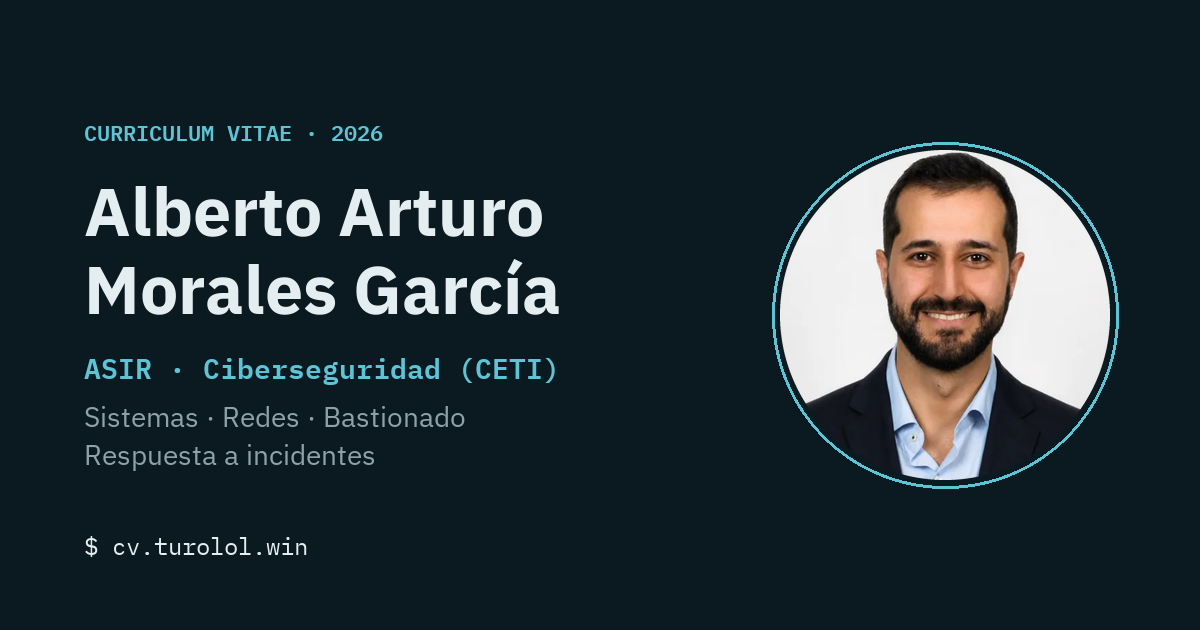
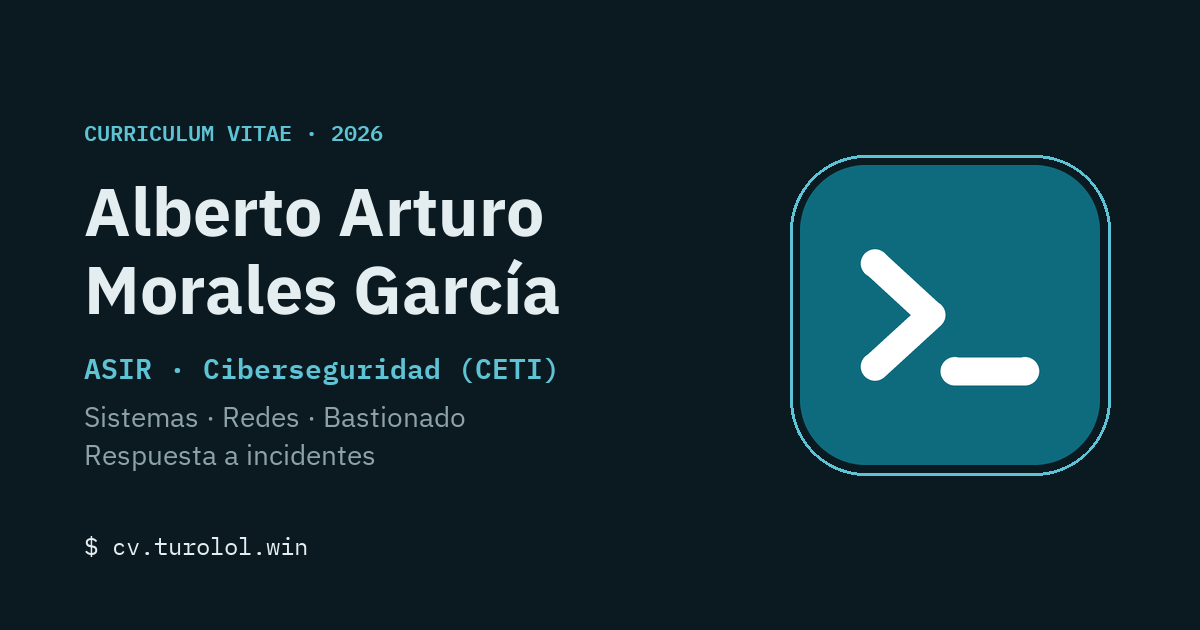
feat: quitar la foto de la web y de la vista previa (privacidad)
La portada se queda con el texto y el terminal (dos zonas en lugar de tres), y
og.png lleva el logo ">_" del favicon en vez de la foto. Los ficheros de la
foto dejan de publicarse; siguen en el historial del repo.

Changed region(s): [[0.6475, 0.2111, 0.9558, 0.7841]]

diff --git a/site/assets/css/style.css b/site/assets/css/style.css
@@ -212,13 +212,8 @@ h2 { font-size: var(--fs-h2); letter-spacing: -.018em; max-width: 24ch; }
 .hero-grid {
   display: grid;
   gap: clamp(1.25rem, 3vw, 2rem) clamp(2rem, 5vw, 4.5rem);
-  grid-template-areas: "photo" "text" "term";
+  grid-template-areas: "text" "term";
   align-items: center;
-}
-.photo {
-  grid-area: photo;
-  width: 104px; height: 104px; border-radius: 50%; object-fit: cover;
-  box-shadow: 0 0 0 1px var(--line), 0 0 0 6px var(--paper), 0 0 0 7px var(--line);
 }
 .hero-text { grid-area: text; display: flex; flex-direction: column; gap: .85rem; min-width: 0; }
 .eyebrow { font-family: var(--f-mono); font-size: var(--fs-label); letter-spacing: .22em; text-transform: uppercase; color: var(--accent); }
@@ -258,12 +253,8 @@ h1 { font-size: var(--fs-display); letter-spacing: -.028em; line-height: 1.02; }
 @media (min-width: 960px) {
   .hero-grid {
     grid-template-columns: minmax(0, 1.25fr) minmax(0, 1fr);
-    grid-template-areas: "text photo" "text term";
-    align-items: end;
+    grid-template-areas: "text term";
   }
-  .hero-text { align-self: center; }
-  .photo { width: 200px; height: 200px; justify-self: center; }
-  .term { align-self: start; }
 }
 
 /* Perfil */
@@ -501,7 +492,6 @@ h1 { font-size: var(--fs-display); letter-spacing: -.028em; line-height: 1.02; }
 
 /* Movimiento: solo si la persona no lo ha desactivado */
 @keyframes rise { from { opacity: 0; transform: translateY(16px); } }
-@keyframes appear { from { opacity: 0; transform: scale(.92); } }
 @keyframes type { from { width: 0; } to { width: 24ch; } }
 @keyframes show { from { visibility: hidden; } to { visibility: visible; } }
 @keyframes blink { 50% { opacity: 0; } }
@@ -512,7 +502,6 @@ h1 { font-size: var(--fs-display); letter-spacing: -.028em; line-height: 1.02; }
   .hero-text > :nth-child(3) { animation-delay: .14s; }
   .hero-text > :nth-child(4) { animation-delay: .2s; }
   .hero-text > :nth-child(5) { animation-delay: .26s; }
-  .photo { animation: appear .9s var(--ease) .1s both; }
   .term { animation: rise .8s var(--ease) .3s both; }
   .typed { animation: type .8s steps(24, end) .75s both; }
   .term-unit, .term dl div, .term-last { animation: show 0s 1.6s both; }

diff --git a/site/en/index.html b/site/en/index.html
@@ -32,8 +32,8 @@
 <link rel="icon" href="../assets/img/favicon.svg" type="image/svg+xml">
 <link rel="preload" href="../assets/fonts/ibm-plex-sans-latin-400-normal.woff2" as="font" type="font/woff2" crossorigin>
 <link rel="preload" href="../assets/fonts/ibm-plex-sans-latin-700-normal.woff2" as="font" type="font/woff2" crossorigin>
-<link rel="stylesheet" href="../assets/css/style.css?v=20261016b">
-<script src="../assets/js/main.js?v=20261016b" defer></script>
+<link rel="stylesheet" href="../assets/css/style.css?v=20261021">
+<script src="../assets/js/main.js?v=20261021" defer></script>
 <script type="application/ld+json">
 {"@context":"https://schema.org","@type":"Person","name":"Alberto Arturo Morales García","jobTitle":"Network systems administrator · Cybersecurity","address":{"@type":"PostalAddress","addressLocality":"Arroyo de la Encomienda","addressRegion":"Valladolid","addressCountry":"ES"},"sameAs":["https://github.com/Tur0l","https://www.linkedin.com/in/albertoamorales/"],"alumniOf":[{"@type":"EducationalOrganization","name":"IES Julián Marías"},{"@type":"CollegeOrUniversity","name":"Universidad de Valladolid"}],"knowsLanguage":["es","en"],"knowsAbout":["Proxmox VE","ZFS","Ceph","WireGuard","CrowdSec","Linux","Cybersecurity"]}
 </script>
@@ -74,7 +74,6 @@
 
 <section id="inicio" class="slide hero" aria-labelledby="nombre">
   <div class="wrap hero-grid">
-    <img class="photo" src="../assets/img/alberto-480.webp" srcset="../assets/img/alberto-240.webp 240w, ../assets/img/alberto-480.webp 480w" sizes="(min-width: 960px) 200px, 104px" width="480" height="480" alt="Photo of Alberto Arturo Morales García">
     <div class="hero-text">
       <p class="eyebrow">Curriculum vitae · 2026</p>
       <h1 id="nombre">Alberto Arturo<br> Morales García</h1>

diff --git a/site/index.html b/site/index.html
@@ -32,8 +32,8 @@
 <link rel="icon" href="assets/img/favicon.svg" type="image/svg+xml">
 <link rel="preload" href="assets/fonts/ibm-plex-sans-latin-400-normal.woff2" as="font" type="font/woff2" crossorigin>
 <link rel="preload" href="assets/fonts/ibm-plex-sans-latin-700-normal.woff2" as="font" type="font/woff2" crossorigin>
-<link rel="stylesheet" href="assets/css/style.css?v=20261016b">
-<script src="assets/js/main.js?v=20261016b" defer></script>
+<link rel="stylesheet" href="assets/css/style.css?v=20261021">
+<script src="assets/js/main.js?v=20261021" defer></script>
 <script type="application/ld+json">
 {"@context":"https://schema.org","@type":"Person","name":"Alberto Arturo Morales García","jobTitle":"Técnico Superior en ASIR · Ciberseguridad","address":{"@type":"PostalAddress","addressLocality":"Arroyo de la Encomienda","addressRegion":"Valladolid","addressCountry":"ES"},"sameAs":["https://github.com/Tur0l","https://www.linkedin.com/in/albertoamorales/"],"alumniOf":[{"@type":"EducationalOrganization","name":"IES Julián Marías"},{"@type":"CollegeOrUniversity","name":"Universidad de Valladolid"}],"knowsLanguage":["es","en"],"knowsAbout":["Proxmox VE","ZFS","Ceph","WireGuard","CrowdSec","Linux","Ciberseguridad"]}
 </script>
@@ -74,7 +74,6 @@
 
 <section id="inicio" class="slide hero" aria-labelledby="nombre">
   <div class="wrap hero-grid">
-    <img class="photo" src="assets/img/alberto-480.webp" srcset="assets/img/alberto-240.webp 240w, assets/img/alberto-480.webp 480w" sizes="(min-width: 960px) 200px, 104px" width="480" height="480" alt="Fotografía de Alberto Arturo Morales García">
     <div class="hero-text">
       <p class="eyebrow">Curriculum vitae · 2026</p>
       <h1 id="nombre">Alberto Arturo<br> Morales García</h1>

diff --git a/tools/og-image.py b/tools/og-image.py
@@ -13,15 +13,25 @@ d = ImageDraw.Draw(img)
 sans = lambda w, s: ImageFont.truetype(str(fonts / f"ibm-plex-sans-latin-{w}-normal.woff2"), s)
 mono = lambda w, s: ImageFont.truetype(str(fonts / f"ibm-plex-mono-latin-{w}-normal.woff2"), s)
 
-# Foto en círculo a la derecha
-size = 330
-photo = Image.open(base / "assets/img/alberto-480.webp").convert("RGB").resize((size, size), Image.LANCZOS)
-mask = Image.new("L", (size * 4, size * 4), 0)
-ImageDraw.Draw(mask).ellipse((0, 0, size * 4 - 1, size * 4 - 1), fill=255)
-mask = mask.resize((size, size), Image.LANCZOS)
-px, py = W - size - 90, (H - size) // 2
-d.ellipse((px - 8, py - 8, px + size + 8, py + size + 8), outline=ACC, width=3)
-img.paste(photo, (px, py), mask)
+# El logo ">_" del favicon a la derecha (sin foto, por privacidad). Se dibuja a 4x y se reduce
+# para que los bordes salgan suaves.
+size, k = 300, 4
+px, py = W - size - 100, (H - size) // 2
+logo = Image.new("RGBA", (size * k, size * k), (0, 0, 0, 0))
+ld = ImageDraw.Draw(logo)
+u = size * k / 32                       # unidades del viewBox 32x32 del favicon
+ld.rounded_rectangle((0, 0, size * k - 1, size * k - 1), radius=7 * u, fill=(14, 107, 125))
+def stroke(points):
+    pts = [(a * u, b * u) for a, b in points]
+    ld.line(pts, fill="white", width=round(3 * u), joint="curve")
+    for x0, y0 in pts:                  # extremos redondeados, como stroke-linecap="round"
+        r = 1.5 * u
+        ld.ellipse((x0 - r, y0 - r, x0 + r, y0 + r), fill="white")
+stroke([(8, 10.5), (14, 16), (8, 21.5)])
+stroke([(16.5, 22), (24, 22)])
+logo = logo.resize((size, size), Image.LANCZOS)
+d.rounded_rectangle((px - 10, py - 10, px + size + 10, py + size + 10), radius=7 * size / 32 + 10, outline=ACC, width=3)
+img.paste(logo, (px, py), logo)
 
 x = 84
 d.text((x, 118), "CURRICULUM VITAE · 2026", font=mono(600, 22), fill=ACC)

diff --git a/README.md b/README.md
@@ -14,7 +14,7 @@ Pantallas que encajan al hacer scroll o deslizar en el móvil, y dos demos inter
 - **Hecha con Claude (Claude Code)**: HTML, CSS y JavaScript sin frameworks ni dependencias. Las fuentes (IBM Plex) van alojadas aquí.
 - **Nada en línea**: ni `<script>` ni `<style>` ni `style=`. Por eso la CSP puede ser `default-src 'none'` con todo en `'self'`, más **Trusted Types** obligatorios (el JS no usa `innerHTML` ni similares).
 - **Cabeceras** en [`site/_headers`](site/_headers): CSP, HSTS, `nosniff`, `frame-ancestors 'none'`, Permissions-Policy cerrada, COOP/CORP.
-- **Sin cookies, sin rastreadores, sin peticiones a terceros.** La foto va sin metadatos y el email se monta con JavaScript para que no lo recojan los bots.
+- **Sin cookies, sin rastreadores, sin peticiones a terceros.** El email se monta con JavaScript para que no lo recojan los bots.
 - **Accesible**: funciona sin JavaScript, respeta `prefers-reduced-motion`, se maneja con teclado y tiene modo oscuro automático.
 - [`/.well-known/security.txt`](site/.well-known/security.txt) según RFC 9116.
 
@@ -41,4 +41,4 @@ Cada push a `main` lo publica Cloudflare Workers (static assets, ver [`wrangler.
 
 ## Licencia
 
-El código es MIT ([LICENSE](LICENSE)). El contenido del CV y la foto son míos y no se pueden reutilizar. Las fuentes IBM Plex van bajo [SIL OFL 1.1](site/assets/fonts/OFL.txt).
+El código es MIT ([LICENSE](LICENSE)). El contenido del CV es mío y no se puede reutilizar. Las fuentes IBM Plex van bajo [SIL OFL 1.1](site/assets/fonts/OFL.txt).
